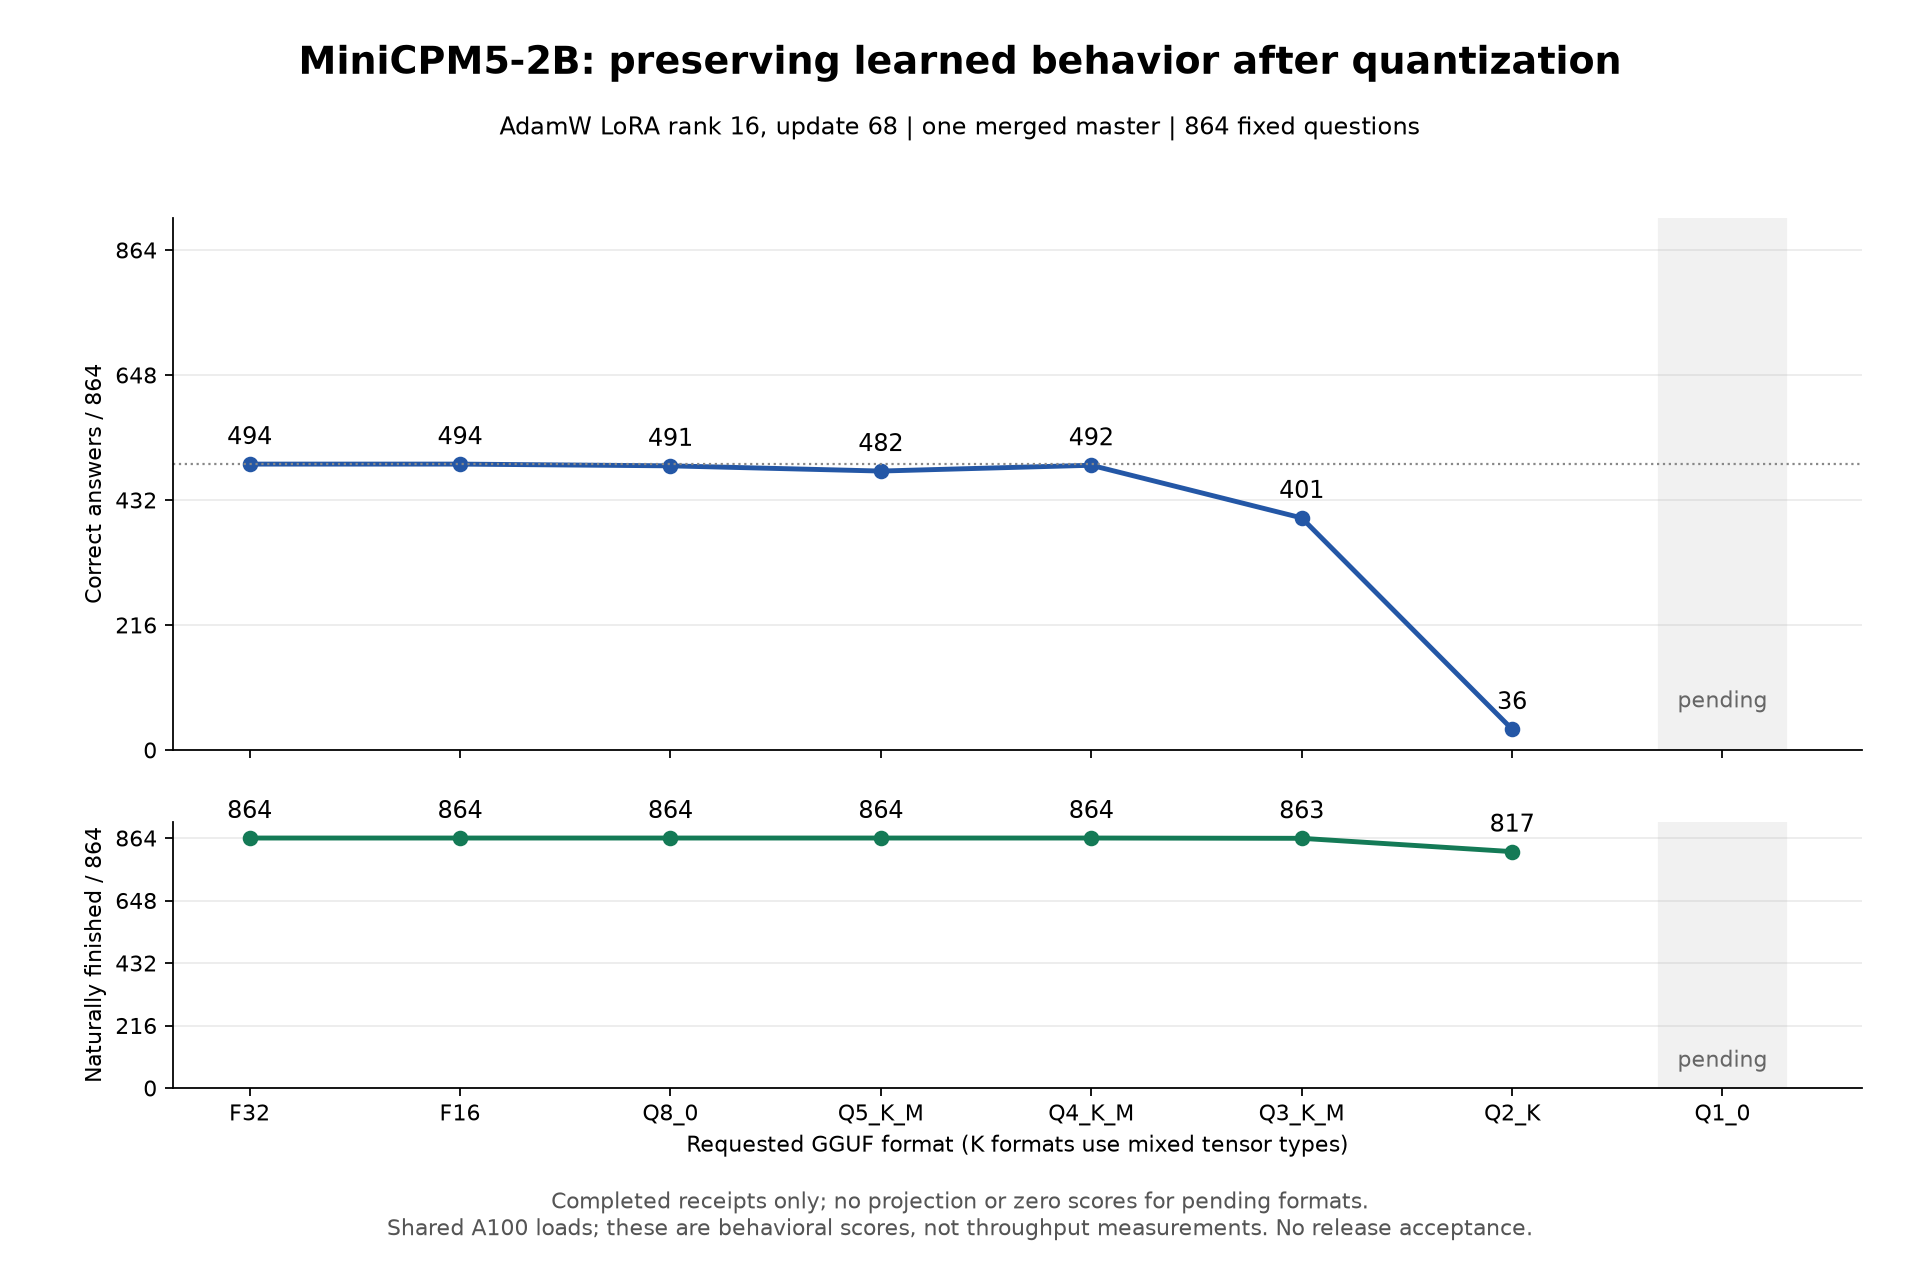
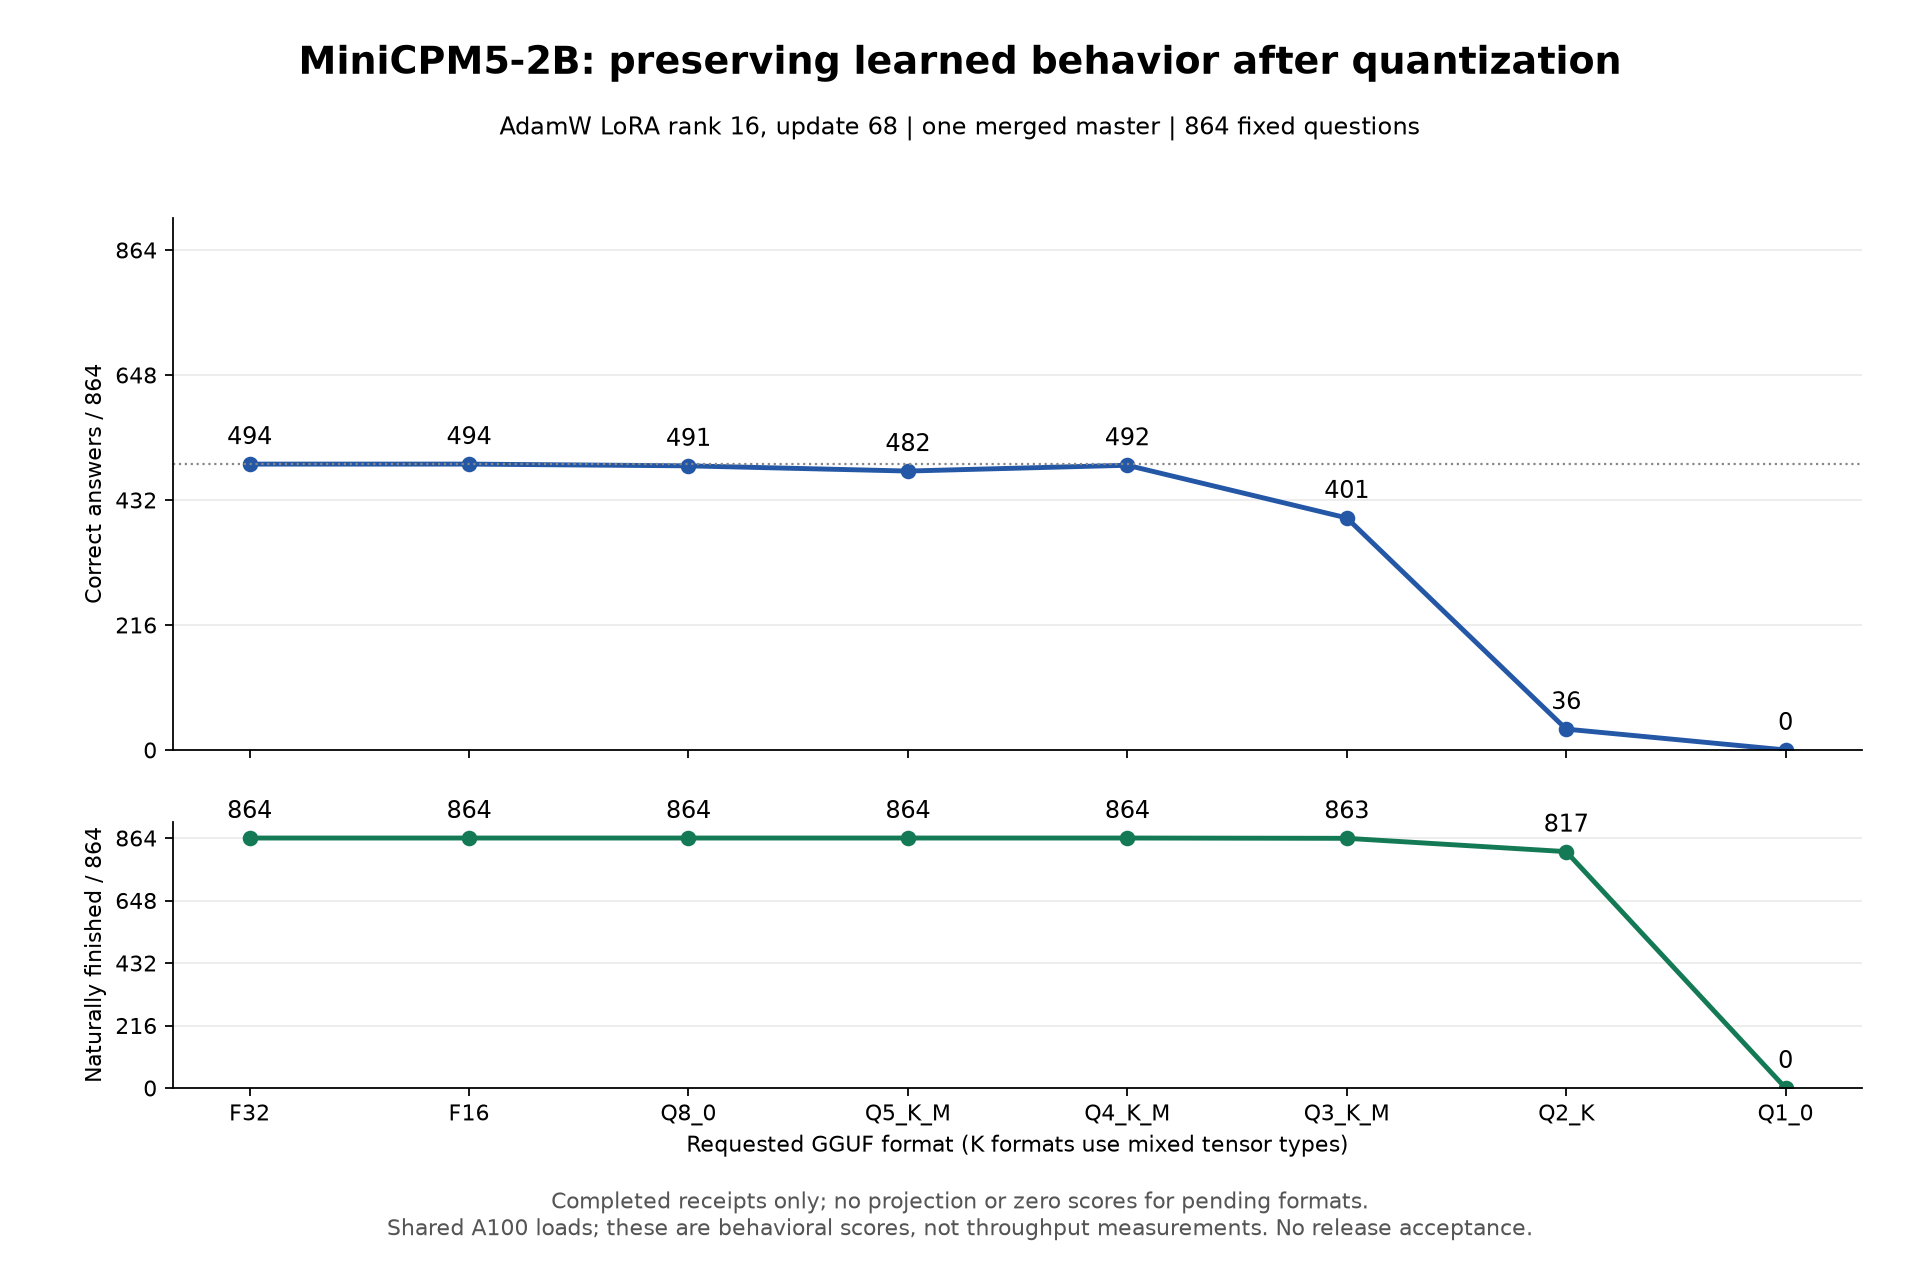
Complete rank16 precision sweep with measured Q1 outcomes

diff --git a/docs/RANK16-PRECISION-PROGRESS.md b/docs/RANK16-PRECISION-PROGRESS.md
@@ -1,9 +1,9 @@
 # How much learned behavior survives a smaller GGUF?
 
-This is an interim precision sweep of the completed **AdamW LoRA rank-16,
+This is a completed precision sweep of the completed **AdamW LoRA rank-16,
 update-68** checkpoint. It is separate from the unfinished optimizer/rank
 comparison. The same 864 frozen arithmetic/state questions are used throughout.
-7 of the eight formats, including the F32 reference, are complete.
+All eight formats, including the F32 reference, are complete (26 October 2026).
 
 ![Rank-16 precision sweep](results/minicpm-20261026/rank16-final-precision.png)
 
@@ -16,9 +16,9 @@ comparison. The same 864 frozen arithmetic/state questions are used throughout.
 | Q4_K_M | 1.454 | 492 | 864 | 20 | 22 |
 | Q3_K_M | 1.203 | 401 | 863 | 20 | 113 |
 | Q2_K | 0.969 | 36 | 817 | 8 | 466 |
-| Q1_0 | pending | pending | pending | pending | pending |
+| Q1_0 | 0.504 | 0 | 0 | 0 | 494 |
 
-Pending formats are not zero scores and are not extrapolated. The
+Every row comes from a complete 864-case assessment. Q1's zeros are measured results, not placeholders. The
 [CSV](results/minicpm-20261026/rank16-final-precision.csv),
 [receipt hashes and skill/gate counts](results/minicpm-20261026/rank16-final-precision.json)
 and [plot source](results/minicpm-20261026/plot_rank16_precision.py) are retained.
@@ -30,7 +30,7 @@ We packed the same trained model into smaller files and asked it the same
 questions. F16 kept every F32 answer/finish verdict. Q4's total is almost the
 same as F32, but it gained 20 correct answers and lost 22 others. A similar total
 does not mean it remembered exactly the same things. Q3 fell to 401/864, so the observed sharp drop starts below Q4 in this
-sweep. Q2 scored 36/864 and naturally finished 817 responses. Q1 is still being measured. The curve has a dip at Q5 and a
+sweep. Q2 scored 36/864 and naturally finished 817 responses. Q1 scored zero and none of its responses reached a natural finish within the 64-output-token limit. The curve has a dip at Q5 and a
 recovery at Q4.
 
 ## Master's level
@@ -67,7 +67,7 @@ these development measurements establish. No seed-repeat experiment ran.
 The earlier failed attached-versus-merged all-position logit gate remains in its
 original record. Saved-weight arithmetic, per-case behavioral retention and
 release qualification answer different questions. These results neither erase
-that failure nor promote any model. The remaining formats, complete 68-update
+that failure nor promote any model. The complete 68-update
 comparison, broader skill/workflow coverage and sealed acceptance remain open.
 
 ## Applied reading
@@ -75,9 +75,9 @@ comparison, broader skill/workflow coverage and sealed acceptance remain open.
 The current Q4 file is about 1.454 GiB, compared with about 9.380 GiB for F32.
 It retains nearly the same total score here while changing which questions pass.
 Inspect the per-domain losses before choosing a format for a particular job.
-F32 through Q4 naturally finished all 864 responses; Q3 finished 863. Q2 naturally finished 817 responses; Q1 is still pending. Later QAT experiments remain separate.
+F32 through Q4 naturally finished all 864 responses; Q3 finished 863. Q2 naturally finished 817 responses; Q1 finished none within the configured output limit. Later QAT experiments remain separate.
 
 These measurements ran on shared A100 GPUs. Recorded allocation times include
 contention and storage work, so they are not isolated inference speed benchmarks.
 No training was repeated to produce this sweep. No GGUF has been uploaded or
-accepted for release. The sweep continues independently of the other arms.
+accepted for release. This completed sweep is separate from the other arms, which remain in progress.

diff --git a/docs/RESULTS-TOUR.md b/docs/RESULTS-TOUR.md
@@ -42,7 +42,7 @@ and its attached adapter.
 ![Rank-16 precision sweep](results/minicpm-20261026/rank16-final-precision.png)
 
 For the completed rank-16 checkpoint, F32/F16 scored **494/864**, Q8 **491**,
-Q5 **482**, Q4 **492**, Q3 **401**, and Q2 **36**. Q1 remains in progress.
+Q5 **482**, Q4 **492**, Q3 **401**, Q2 **36**, and Q1 **0**. All eight formats are complete.
 The observed steep drop starts below Q4, with a nonmonotonic dip at Q5.
 These are the same 864 questions through the same standalone evaluation path.
 
@@ -54,9 +54,10 @@ unchanged behavior. This is a measured development result, not a release decisio
 
 ## What remains unfinished
 
-The other training arms, Q1, broader workflow and research skills, and final
-acceptance remain open. A new joined BW/PCC/S³ native training round is being
-assessed separately. No trained GGUF has been uploaded or accepted for release.
+The other training arms, broader workflow and research skills, and final
+acceptance remain open. A separate joined BW/PCC/S³ native round completed its
+train/test/decision/preserve cycle. Its candidate lost 20 review passes without
+improving the workflow score, so the working parent stayed unchanged. No trained GGUF has been uploaded or accepted for release.
 These are results from an active development project, not a finished product
 benchmark or a claim of general autonomous competence.
 
